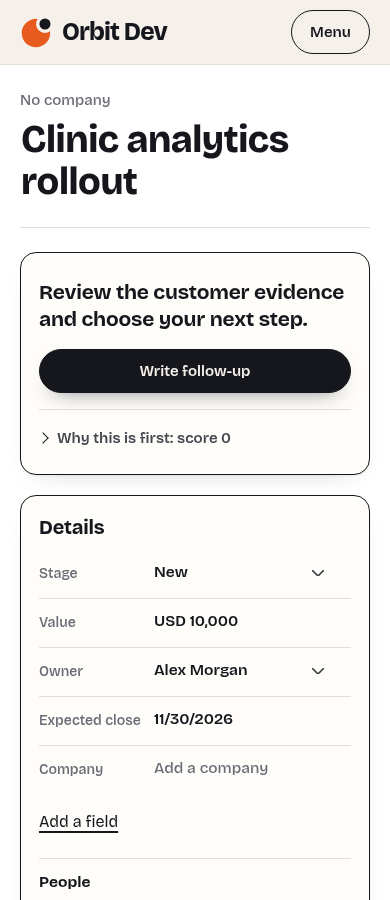
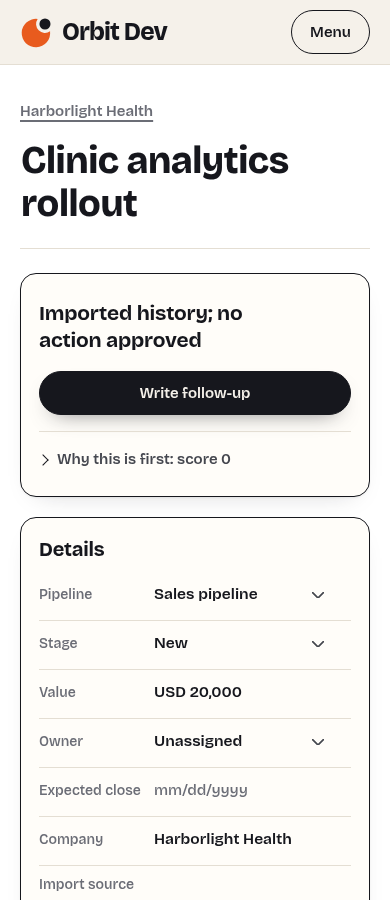
Reports for main-orbit-stranger34-trips-1-pc1 [skip ci]

diff --git a/files/REPORT.md b/files/REPORT.md
@@ -69,3 +69,16 @@ The claim is a builder report, not a Status/Gap/Evidence edit or a landing decis
 - pnpm run typecheck passed. Source lock regeneration and check passed. git diff --check passed. Test inventory: 198 + 2 = 200.
 - Browser-only proof files retain actual public-door values and 20 screenshots. The workflow editor explanation was also checked at 1440 and captured at both widths.
 - Exact-SHA Verify 43812018788 remained in progress at 2026-11-16T05:53:40Z, API call six. Product is pushed; readiness remains pending the final exact-SHA verdict.
+
+The title probe was repeated with the exact Harborlight Health company context from the clinic import, rather than the initially unassociated synthetic deal. It still fits: 138/138 pixels at 1440, 87/87 at 390. Updated title screenshots and actual measurements are retained in two-trip-proof.json; title-company-proof.log records the successful probe.
+
+The first evidence publication was fetched through Git and all 41 manifest file lengths, hashes and blob identities verified. evidence-transport-check.json records this phase separately from the final product/CI verdict.
+
+## Terminal result
+Exact-SHA Verify 43812018788 completed/success for ca63c4ad3230d54e03535767a7bdfb564dfa5e4f, observed through REST at 2026-11-16T06:23:40Z. Nine of the ten permitted GitHub calls were used; no retries of the blocked archive reads, workflow dispatches or CI reruns were needed. Prior failed Verify 43803452801 remains historical diagnosis only.
+
+The remote product branch was re-read through Git and matches the clean local head. All published starting commits are preserved. The candidate has no skip marker. No PR was required or created. No blockers remain for this task's cut. Seven original trips are fixed; title and forecast were not reproduced on the matching fixtures and remain unchanged. No clause Status, Gap or Evidence was edited, and no DONE claim is made.
+
+Product custody is READY for the fleet's independent publication/landing gates. This evidence transfer is separate from product readiness, acceptance and landing. The complete report/receipt packet remains outside the disposable product checkout. Task-owned browsers and servers have been stopped. The clone is deleted after successful final evidence publication, as instructed.
+
+Signed: Run Edit Run fleet · 2026-11-16.
